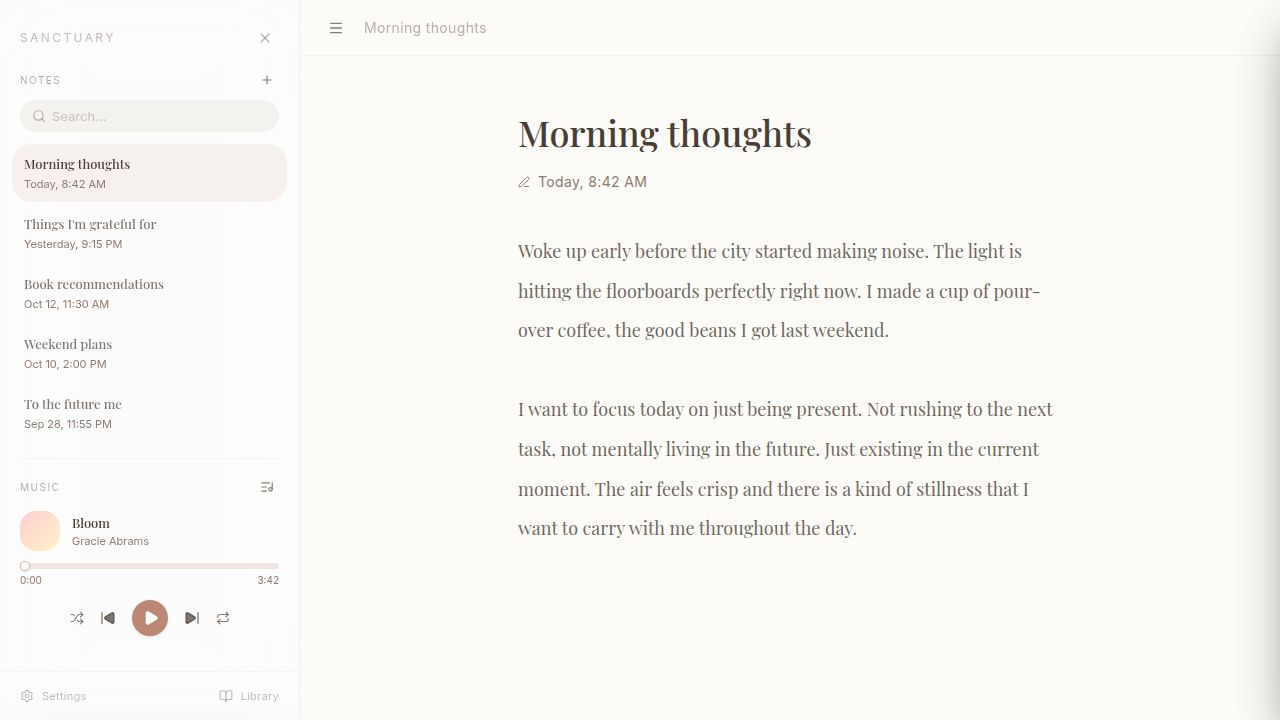
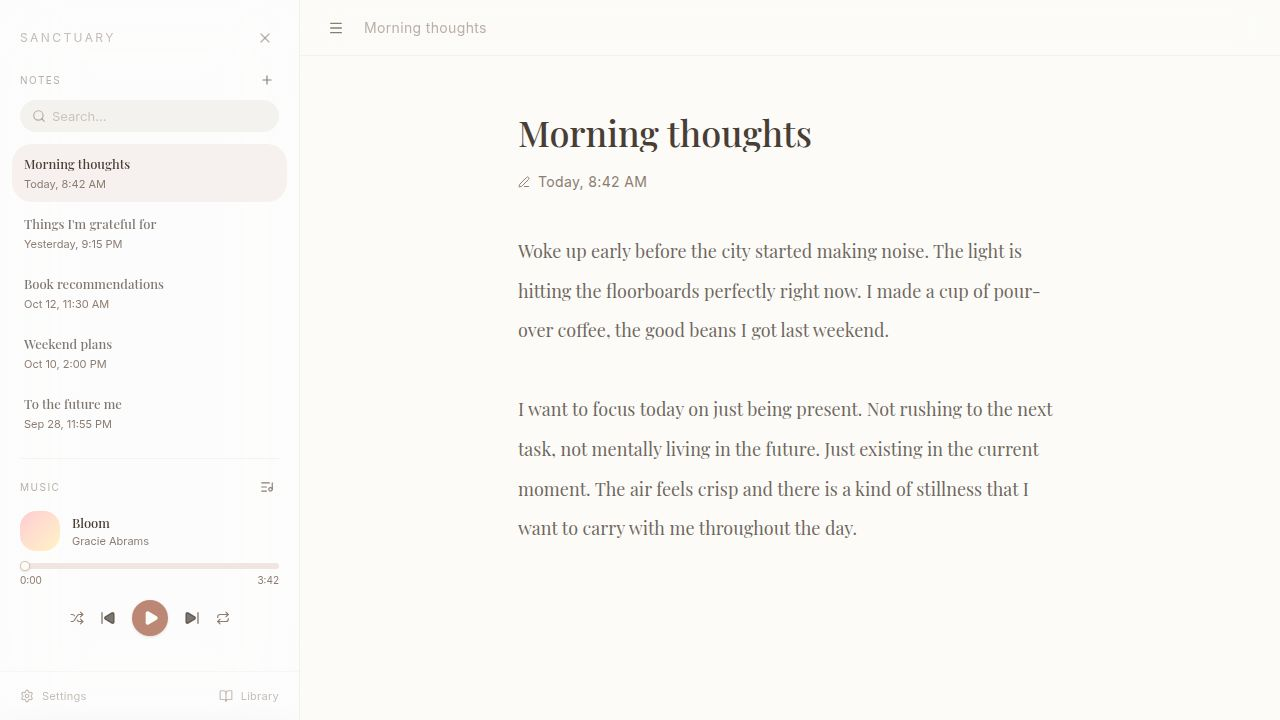
Improve music playback stability and add retry functionality
Add error handling, retry mechanisms, and preloading to the audio playback logic to prevent interruptions and ensure smoother playback.

Replit-Commit-Author: Agent
Replit-Commit-Session-Id: fd159f72-f882-4234-94ba-2c274a0e07ec
Replit-Commit-Checkpoint-Type: full_checkpoint
Replit-Commit-Event-Id: 5d8cbedb-7e9f-4c8b-aaee-b2e772cdb0e4
Replit-Commit-Screenshot-Url: https://storage.googleapis.com/screenshot-production-us-central1/93a4cc05-1a5b-4e89-a5ab-a81161aff580/fd159f72-f882-4234-94ba-2c274a0e07ec/9woP7b9
Replit-Helium-Checkpoint-Created: true

Changed region(s): [[0.9688, 0.0611, 1.0, 1.0]]

diff --git a/artifacts/sanctuary-app/src/hooks/useAudio.ts b/artifacts/sanctuary-app/src/hooks/useAudio.ts
@@ -21,6 +21,9 @@ function parseFileMeta(file: File, index: number): Omit<Song, 'durationSecs' | '
   };
 }
 
+const MAX_RETRY = 3;
+const RETRY_DELAY = 1000;
+
 export function useAudio() {
   const [playlist,          setPlaylist]          = useState<Song[]>(DEFAULT_PLAYLIST);
   const [currentSongIndex,  setCurrentSongIndex]  = useState(0);
@@ -45,17 +48,40 @@ export function useAudio() {
   const isDraggingRef = useRef(isDragging);
   const currentSongIndexRef = useRef(currentSongIndex);
   const durationRef = useRef(duration);
+  const isPlayingRef = useRef(isPlaying);
+  const retryCountRef = useRef(0);
+  const retryTimerRef = useRef<ReturnType<typeof setTimeout>>();
   isShuffleRef.current  = isShuffle;
   isRepeatRef.current   = isRepeat;
   playlistRef.current   = playlist;
   isDraggingRef.current = isDragging;
   currentSongIndexRef.current = currentSongIndex;
   durationRef.current   = duration;
+  isPlayingRef.current  = isPlaying;
 
   const rafId = useRef(0);
 
+  const safePlay = useCallback((audio: HTMLAudioElement) => {
+    const p = audio.play();
+    if (p) {
+      p.catch((err) => {
+        if (err.name === 'AbortError') return;
+        if (err.name === 'NotAllowedError') return;
+        if (retryCountRef.current < MAX_RETRY && isPlayingRef.current) {
+          retryCountRef.current += 1;
+          clearTimeout(retryTimerRef.current);
+          retryTimerRef.current = setTimeout(() => {
+            if (!audioRef.current || !isPlayingRef.current) return;
+            safePlay(audioRef.current);
+          }, RETRY_DELAY * retryCountRef.current);
+        }
+      });
+    }
+  }, []);
+
   useEffect(() => {
     const audio = new Audio();
+    audio.preload = 'auto';
     audioRef.current = audio;
 
     let lastReportedTime = 0;
@@ -70,15 +96,49 @@ export function useAudio() {
       });
     };
     const onDurationChange = () => { if (isFinite(audio.duration)) setDuration(audio.duration); };
-    const onPlay  = () => setIsPlaying(true);
+    const onPlay  = () => { retryCountRef.current = 0; setIsPlaying(true); };
     const onPause = () => setIsPlaying(false);
     const onEnded = () => {
       const len = playlistRef.current.length;
       if (!len) return;
-      if (isRepeatRef.current) { audio.currentTime = 0; audio.play(); return; }
+      if (isRepeatRef.current) { audio.currentTime = 0; safePlay(audio); return; }
       setCurrentSongIndex(prev =>
         isShuffleRef.current ? shuffleNext(prev, len) : (prev + 1) % len
       );
+    };
+
+    const onError = () => {
+      if (!isPlayingRef.current) return;
+      if (retryCountRef.current < MAX_RETRY) {
+        retryCountRef.current += 1;
+        const savedTime = audio.currentTime;
+        clearTimeout(retryTimerRef.current);
+        retryTimerRef.current = setTimeout(() => {
+          if (!audioRef.current || !isPlayingRef.current) return;
+          const src = audioRef.current.src;
+          if (!src) return;
+          audioRef.current.src = src;
+          audioRef.current.currentTime = savedTime;
+          safePlay(audioRef.current);
+        }, RETRY_DELAY * retryCountRef.current);
+      }
+    };
+
+    const onStalled = () => {
+      if (!isPlayingRef.current) return;
+      clearTimeout(retryTimerRef.current);
+      retryTimerRef.current = setTimeout(() => {
+        if (!audioRef.current || !isPlayingRef.current) return;
+        if (audioRef.current.paused) safePlay(audioRef.current);
+      }, 2000);
+    };
+
+    const onWaiting = () => {
+      clearTimeout(retryTimerRef.current);
+      retryTimerRef.current = setTimeout(() => {
+        if (!audioRef.current || !isPlayingRef.current) return;
+        if (audioRef.current.paused) safePlay(audioRef.current);
+      }, 3000);
     };
 
     audio.addEventListener('timeupdate',     onTimeUpdate);
@@ -86,14 +146,21 @@ export function useAudio() {
     audio.addEventListener('play',           onPlay);
     audio.addEventListener('pause',          onPause);
     audio.addEventListener('ended',          onEnded);
+    audio.addEventListener('error',          onError);
+    audio.addEventListener('stalled',        onStalled);
+    audio.addEventListener('waiting',        onWaiting);
 
     return () => {
       cancelAnimationFrame(rafId.current);
+      clearTimeout(retryTimerRef.current);
       audio.removeEventListener('timeupdate',     onTimeUpdate);
       audio.removeEventListener('durationchange', onDurationChange);
       audio.removeEventListener('play',           onPlay);
       audio.removeEventListener('pause',          onPause);
       audio.removeEventListener('ended',          onEnded);
+      audio.removeEventListener('error',          onError);
+      audio.removeEventListener('stalled',        onStalled);
+      audio.removeEventListener('waiting',        onWaiting);
       audio.pause();
       audioRef.current = null;
     };
@@ -102,12 +169,15 @@ export function useAudio() {
   useEffect(() => {
     const audio = audioRef.current;
     if (!audio) return;
+    retryCountRef.current = 0;
+    clearTimeout(retryTimerRef.current);
     const song = playlist[currentSongIndex];
     if (song?.src) {
       audio.src = song.src;
+      audio.load();
       setCurrentTime(0);
       setDuration(0);
-      if (isPlaying) audio.play().catch(() => {});
+      if (isPlaying) safePlay(audio);
     } else {
       audio.removeAttribute('src');
       setCurrentTime(0);
@@ -118,7 +188,7 @@ export function useAudio() {
   useEffect(() => {
     const audio = audioRef.current;
     if (!audio || !playlist[currentSongIndex]?.src) return;
-    if (isPlaying) audio.play().catch(() => {});
+    if (isPlaying) safePlay(audio);
     else           audio.pause();
   }, [isPlaying]); // eslint-disable-line react-hooks/exhaustive-deps
 
@@ -130,9 +200,9 @@ export function useAudio() {
   const handlePlayPause = useCallback(() => {
     if (!audioRef.current || !playlistRef.current.length) return;
     if (!playlistRef.current[currentSongIndexRef.current]?.src) { setIsPlaying(p => !p); return; }
-    if (audioRef.current.paused) audioRef.current.play().catch(() => {});
+    if (audioRef.current.paused) safePlay(audioRef.current);
     else                         audioRef.current.pause();
-  }, []);
+  }, [safePlay]);
 
   const handleNext = useCallback(() => {
     if (!playlist.length) return;